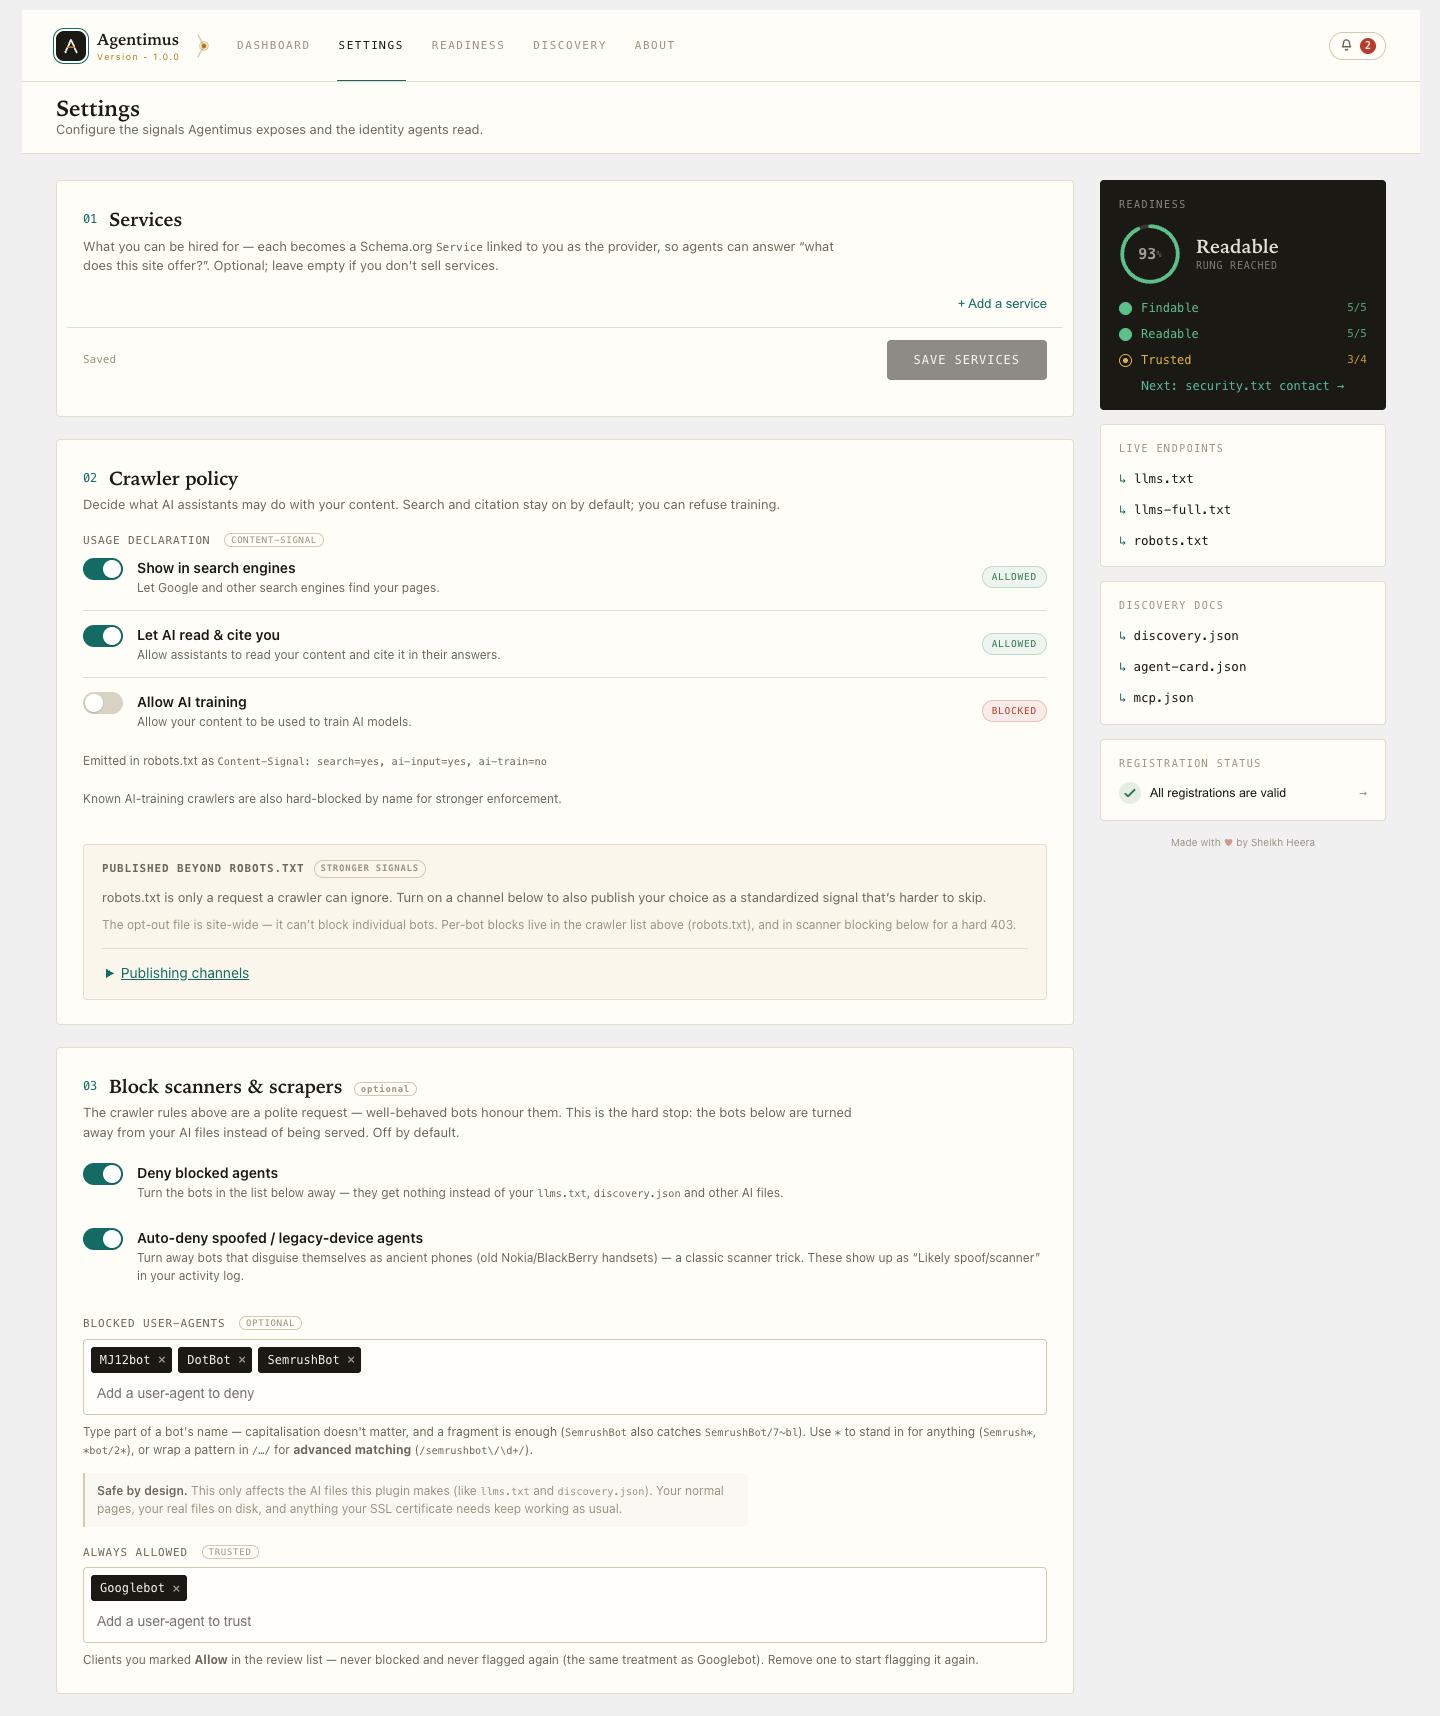
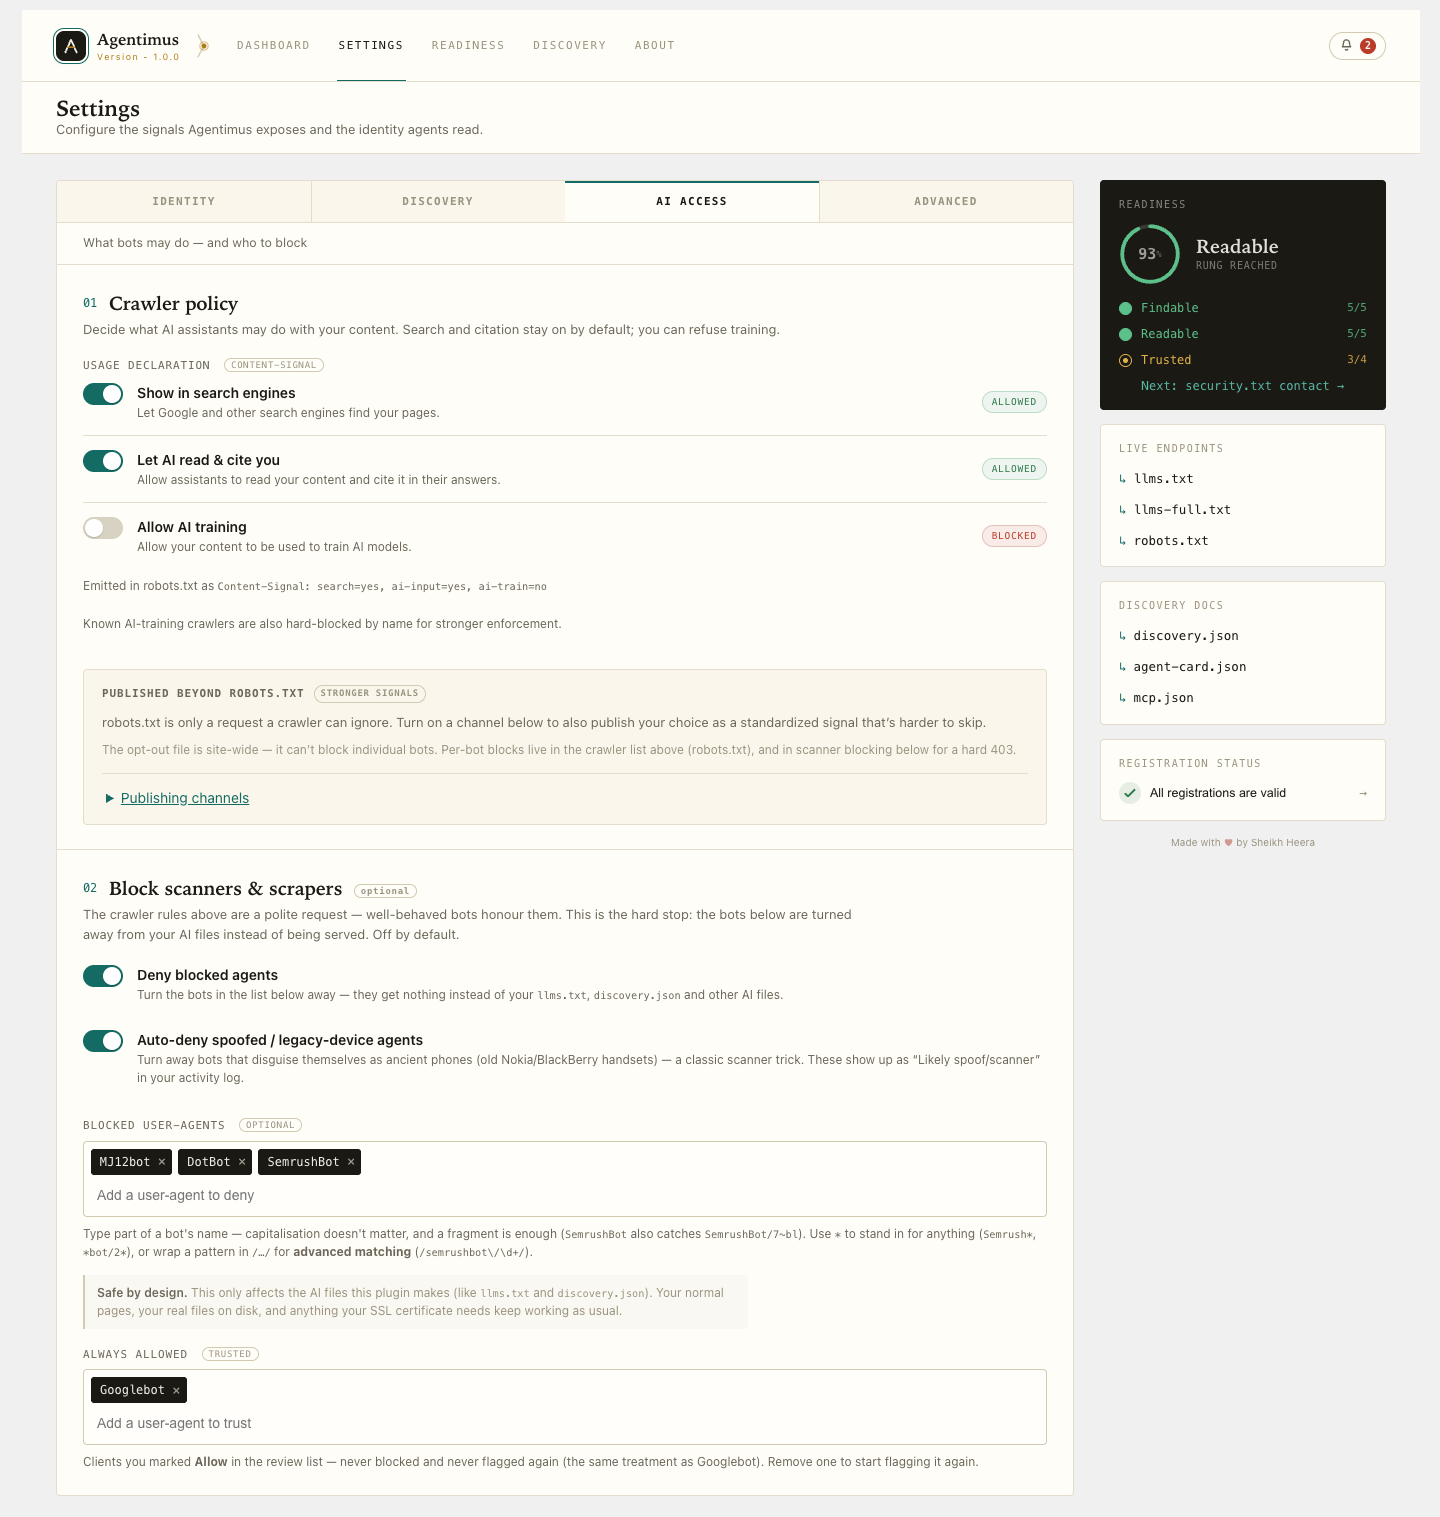
assets(wporg): regenerate the two Settings screenshots for the tabbed redesign
The Settings UI is now a tabbed panel, so the old render logic (which keyed off
flat card IDs and hid siblings) no longer produces a coherent shot. Updated the
render script to select a group via its sub-nav tab: shot 2 = Discovery
(readiness toggles + the new Browser tools / WebMCP card), shot 5 = AI access
(crawler policy + scanner blocking). Staged WebMCP in the screenshot data and
updated the shot-2 caption to match.

diff --git a/.dev/asset-sources/data.js b/.dev/asset-sources/data.js
@@ -1,2 +1,5 @@
 window.AgentimusData = {"restUrl":"https:\/\/heera.it\/wp-json\/agentimus\/v1","nonce":"e52e4bdfdf","settings":{"enable_llms_txt":true,"enable_llms_full":true,"enable_markdown":true,"enable_robots":true,"enable_schema":true,"enable_activity":true,"enable_sitemap":true,"enable_security_txt":false,"enable_signing":true,"llms_full_posts":50,"llms_full_max_kb":1024,"post_types":["post","page","article"],"rest_namespaces":[],"oauth_auth_server":"","suppressed_resources":[],"identity":{"entity_type":"Person","name":"Sheikh Heera","role":"Software architect & CTO, Authlab","about":"Sheikh Heera is a software architect and CTO of Authlab, based in Sylhet, Bangladesh, with 16+ years building web applications and software systems. Outside engineering he is a dedicated fraghead who collects perfumes, with a personal collection of nearly 2,000 fragrances.","contact_email":"","expertise":["Software Architecture","AI Engineering","Security","PHP","JavaScript","WordPress","Laravel","Vue","Fragrance"],"same_as":["https:\/\/github.com\/heera","https:\/\/heera.it"]},"security":{"contacts":[],"policy":"","acknowledgments":"","encryption":"","hiring":"","preferred_languages":"","expires_days":182},"content_signal":{"search":true,"ai_input":true,"ai_train":false},"blocked_trainers":["Amazonbot","Applebot-Extended","Bytespider","CCBot","ClaudeBot","GPTBot","Google-Extended","meta-externalagent"],"block_agents":true,"block_spoofed":true,"blocked_agents":["MJ12bot","DotBot","SemrushBot"],"allowed_agents":["Googlebot"]},"defaults":{"enable_llms_txt":true,"enable_llms_full":true,"enable_markdown":true,"enable_robots":true,"enable_schema":true,"enable_activity":true,"enable_sitemap":true,"enable_security_txt":false,"enable_signing":false,"llms_full_posts":50,"llms_full_max_kb":1024,"post_types":["post","page"],"rest_namespaces":[],"oauth_auth_server":"","suppressed_resources":[],"identity":{"entity_type":"Person","name":"Sheikh Heera","role":"","about":"","contact_email":"","expertise":[],"same_as":[]},"security":{"contacts":[],"policy":"","acknowledgments":"","encryption":"","hiring":"","preferred_languages":"","expires_days":182},"content_signal":{"search":true,"ai_input":true,"ai_train":false},"blocked_trainers":["Amazonbot","Applebot-Extended","Bytespider","CCBot","ClaudeBot","GPTBot","Google-Extended","meta-externalagent"]},"readiness":[{"id":"public","label":"Search engine visibility","status":"pass","detail":"The site is public, so agents and crawlers can read it.","fix":"","action":null},{"id":"permalinks","label":"Pretty permalinks","status":"pass","detail":"Markdown URLs like \/post-slug.md resolve cleanly.","fix":"","action":null},{"id":"llms","label":"\/llms.txt index","status":"pass","detail":"Served at https:\/\/heera.it\/llms.txt.","fix":"","action":null},{"id":"llms_full","label":"\/llms-full.txt full text","status":"pass","detail":"Served at https:\/\/heera.it\/llms-full.txt.","fix":"","action":null},{"id":"llms_full_size","label":"Full-text file size","status":"pass","detail":"About 58 items (~232 KB), within the 1 MB limit.","fix":"","action":null},{"id":"post_types","label":"Content coverage","status":"pass","detail":"Indexing 3 content type(s): Posts, Pages, Article.","fix":"","action":null},{"id":"about","label":"Author \/ entity profile","status":"pass","detail":"A profile sentence is set \u2014 the highest-signal line for retrieval.","fix":"","action":null},{"id":"expertise","label":"Expertise topics","status":"pass","detail":"Expertise is declared (feeds llms.txt and knowsAbout).","fix":"","action":null},{"id":"same_as","label":"sameAs profiles","status":"pass","detail":"Linked profiles help agents resolve your entity confidently.","fix":"","action":null},{"id":"security_txt","label":"security.txt contact","status":"warn","detail":"No security.txt. Researchers and agents have no machine-readable way to report a vulnerability.","fix":"Turn on \u201cGenerate security.txt\u201d under Settings \u2192 Security.txt and add a contact (your Identity email is reused automatically). It publishes an RFC 9116 disclosure contact at \/.well-known\/security.txt.","action":{"label":"Enable security.txt","tab":"settings","anchor":"ar-sec-security"}},{"id":"schema","label":"JSON-LD structured data","status":"pass","detail":"Agentimus is emitting WebSite + entity + article schema.","fix":"","action":null},{"id":"robots","label":"robots.txt control","status":"pass","detail":"WordPress serves a virtual robots.txt that this plugin manages.","fix":"","action":null},{"id":"sitemap","label":"XML sitemap","status":"pass","detail":"WordPress core sitemap is live and advertised in robots.txt and llms.txt.","fix":"","action":null},{"id":"robots_sitemap","label":"Sitemap in robots.txt","status":"pass","detail":"robots.txt declares a Sitemap: line, so crawlers discover your sitemap automatically.","fix":"","action":null}],"discovery":{"endpoints":{"discovery":"https:\/\/heera.it\/.well-known\/discovery.json","agentCard":"https:\/\/heera.it\/.well-known\/agent-card.json","agentJson":"https:\/\/heera.it\/.well-known\/agent.json","mcp":"https:\/\/heera.it\/.well-known\/mcp.json","rest":"https:\/\/heera.it\/wp-json\/agentimus\/v1\/discovery"},"site":{"name":"Sheikh Heera","url":"https:\/\/heera.it\/","description":"Software Developer, Fragrance Lover & Dreamer","lang":"en-US","logo":""},"resources":[{"id":"acme-bookings","title":"Acme Bookings","type":"scheduling","description":"Appointment scheduling exposed for agents.","version":"","provider":"mu-plugins\/agentify-demo-cpts.php","auto":false,"engine":"","suppressed":false,"capabilities":["scheduling.availability.read","scheduling.booking.create"],"endpoints":[{"url":"https:\/\/heera.it\/wp-json\/acme\/v1","type":"rest","auth":"apikey"}],"hasAgent":true,"tools":0,"abilities":[]},{"id":"demo-newsletter","title":"Demo Newsletter","type":"crm","description":"Read-only subscriber-list metadata.","version":"","provider":"mu-plugins\/agentify-demo-cpts.php","auto":false,"engine":"","suppressed":false,"capabilities":["crm.lists.read"],"endpoints":[{"url":"https:\/\/heera.it\/wp-json\/demo-news\/v1","type":"rest","auth":"none"}],"hasAgent":false,"tools":0,"abilities":[]},{"id":"abilities-core","title":"Core abilities","type":"agent","description":"3 abilities from the \"core\" namespace.","version":"","provider":"agentimus\/agentimus.php","auto":true,"engine":"Abilities API","suppressed":false,"capabilities":[],"endpoints":[],"hasAgent":true,"tools":3,"abilities":["core\/get-site-info","core\/get-user-info","core\/get-environment-info"]},{"id":"wordpress-core","title":"WordPress Core","type":"content","description":"Core content exposed via the WordPress REST API.","version":"","provider":"agentimus\/agentimus.php","auto":true,"engine":"REST API","suppressed":false,"capabilities":["content.posts.read","content.pages.read","content.article.read","content.categories.read","content.tags.read"],"endpoints":[{"url":"https:\/\/heera.it\/wp-json\/wp\/v2","type":"rest","auth":"none"}],"hasAgent":false,"tools":0,"abilities":[]}],"capabilities":["scheduling.availability.read","scheduling.booking.create","crm.lists.read","content.posts.read","content.pages.read","content.article.read","content.categories.read","content.tags.read"],"apis":[{"id":"acme-bookings","type":"rest","base":"https:\/\/heera.it\/wp-json\/acme\/v1","schema":"","auth":{"type":"apikey","docs":""}},{"id":"demo-newsletter","type":"rest","base":"https:\/\/heera.it\/wp-json\/demo-news\/v1","schema":"","auth":{"type":"none","docs":""}},{"id":"wordpress-core","type":"rest","base":"https:\/\/heera.it\/wp-json\/wp\/v2","schema":"","auth":{"type":"none","docs":""}}],"agents":[{"id":"acme-bookings","name":"Booking Agent","skills":1},{"id":"abilities-core","name":"Core Agent","skills":3}],"wellKnown":[{"name":"discovery.json","url":"https:\/\/heera.it\/.well-known\/discovery.json","source":"generated","spec":"WP Discovery"},{"name":"agent-card.json","url":"https:\/\/heera.it\/.well-known\/agent-card.json","source":"generated","spec":"A2A"},{"name":"agent.json","url":"https:\/\/heera.it\/.well-known\/agent.json","source":"generated","spec":"A2A (legacy)"},{"name":"mcp.json","url":"https:\/\/heera.it\/.well-known\/mcp.json","source":"generated","spec":"MCP (experimental)"},{"name":"api-catalog","url":"https:\/\/heera.it\/.well-known\/api-catalog","source":"generated","spec":"RFC 9727"},{"name":"http-message-signatures-directory","url":"https:\/\/heera.it\/.well-known\/http-message-signatures-directory","source":"generated","spec":"Web Bot Auth (HTTP Message Signatures)"}],"tools":[{"name":"core\/get-site-info","title":"Get Site Information","description":"Returns site information configured in WordPress. By default returns all fields, or optionally a filtered subset.","inputSchema":{"type":"object","properties":{"fields":{"type":"array","items":{"type":"string","enum":["name","description","url","wpurl","admin_email","charset","language","version"]},"description":"Optional: Limit response to specific fields. If omitted, all fields are returned."}},"additionalProperties":false,"default":[]},"outputSchema":{"type":"object","properties":{"name":{"type":"string","description":"The site title."},"description":{"type":"string","description":"The site tagline."},"url":{"type":"string","description":"The site home URL."},"wpurl":{"type":"string","description":"The WordPress installation URL."},"admin_email":{"type":"string","description":"The site administrator email address."},"charset":{"type":"string","description":"The site character encoding."},"language":{"type":"string","description":"The site language locale code."},"version":{"type":"string","description":"The WordPress version."}},"additionalProperties":false},"annotations":{"readOnlyHint":true},"auth":"none"},{"name":"core\/get-user-info","title":"Get User Information","description":"Returns basic profile details for the current authenticated user to support personalization, auditing, and access-aware behavior.","inputSchema":[],"outputSchema":{"type":"object","required":["id","display_name","user_nicename","user_login","roles","locale"],"properties":{"id":{"type":"integer","description":"The user ID."},"display_name":{"type":"string","description":"The display name of the user."},"user_nicename":{"type":"string","description":"The URL-friendly name for the user."},"user_login":{"type":"string","description":"The login username for the user."},"roles":{"type":"array","description":"The roles assigned to the user.","items":{"type":"string"}},"locale":{"type":"string","description":"The locale string for the user, such as en_US."}},"additionalProperties":false},"annotations":{"readOnlyHint":true},"auth":"none"},{"name":"core\/get-environment-info","title":"Get Environment Info","description":"Returns core details about the site's runtime context for diagnostics and compatibility (environment, PHP runtime, database server info, WordPress version).","inputSchema":[],"outputSchema":{"type":"object","required":["environment","php_version","db_server_info","wp_version"],"properties":{"environment":{"type":"string","description":"The site's runtime environment classification (can be one of these: production, staging, development, local).","enum":["production","staging","development","local"]},"php_version":{"type":"string","description":"The PHP runtime version executing WordPress."},"db_server_info":{"type":"string","description":"The database server vendor and version string reported by the driver."},"wp_version":{"type":"string","description":"The WordPress core version running on this site."}},"additionalProperties":false},"annotations":{"readOnlyHint":true},"auth":"none"}],"mcp":{"available":false,"source":"abilities","endpoint":"","transport":"","auth":"","tools":3,"servers":[],"status":"experimental"},"adapters":[{"id":"rest-api","title":"REST API (auto-discovery)","available":true},{"id":"wp-abilities","title":"WordPress Abilities API","available":true}],"notices":[],"counts":{"resources":4,"suppressed":0,"capabilities":8,"apis":3,"tools":3,"errors":0}},"restNamespacesDetected":["disqus\/v1","docwriter\/v2","fluent-cart\/v2","jetpack-boost\/v1","jetpack\/v4","jetpack\/v4\/stats-app","klaviyo\/v1","payments\/woopay","paypal\/v1","pinterest\/v1","wc-admin","wc-admin-email","wc-analytics","wc-telemetry","wc\/gla","wc\/pos\/v1\/catalog","wc\/private","wc\/rfw\/jetpack","wc\/rfw\/reddit","wc\/sfw\/jetpack","wc\/sfw\/snapchat","wc\/store","wc\/store\/v1","wc\/v1","wc\/v2","wc\/v3","wc\/v3\/wc_paypal","wccom-site\/v3","wpaiwriter\/v2","wpcom\/v2","wpcom\/v3","wpfluent\/v2"],"entityTypes":["Person","Organization","LocalBusiness","Store"],"postTypes":[{"slug":"post","label":"Posts","source":""},{"slug":"page","label":"Pages","source":""},{"slug":"event","label":"Events","source":""},{"slug":"recipe","label":"Recipes","source":""},{"slug":"book","label":"Books","source":""},{"slug":"portfolio_item","label":"Portfolio","source":""},{"slug":"product","label":"Products","source":""},{"slug":"fluent-products","label":"Products","source":""},{"slug":"article","label":"Article","source":""}],"knownTrainers":["Amazonbot","Applebot-Extended","Bytespider","CCBot","ClaudeBot","GPTBot","Google-Extended","meta-externalagent"],"endpoints":{"llms":"https:\/\/heera.it\/llms.txt","llmsFull":"https:\/\/heera.it\/llms-full.txt","robots":"https:\/\/heera.it\/robots.txt"},"version":"1.0.0","onboarded":true,"llmsFullEstimate":{"items":58,"est_bytes":237568,"budget_bytes":[phone redacted],"will_truncate":false}};
 window.__ACTIVITY__ = {"enabled": true, "window": 30, "totals": {"today": 38, "week": 274, "month": 1180, "all": 1180, "agents": 8}, "byAgent": [{"label": "GPTBot", "hits": 402}, {"label": "ClaudeBot", "hits": 318}, {"label": "PerplexityBot", "hits": 211}, {"label": "Googlebot", "hits": 168}, {"label": "Google-Extended", "hits": 92}, {"label": "CCBot", "hits": 64}, {"label": "Bytespider", "hits": 41}, {"label": "Script/tool", "hits": 28}], "byEndpoint": [{"label": "/llms.txt", "hits": 540}, {"label": "/.well-known/discovery.json", "hits": 222}, {"label": "/llms-full.txt", "hits": 180}, {"label": "/about.md", "hits": 96}, {"label": "/.well-known/agent-card.json", "hits": 71}, {"label": "/.well-known/mcp.json", "hits": 44}, {"label": "/robots.txt", "hits": 31}], "daily": [{"date": "2026-06-05", "hits": 62}, {"date": "2026-06-06", "hits": 48}, {"date": "2026-06-07", "hits": 75}, {"date": "2026-06-08", "hits": 90}, {"date": "2026-06-09", "hits": 58}, {"date": "2026-06-10", "hits": 103}, {"date": "2026-06-11", "hits": 84}, {"date": "2026-06-12", "hits": 71}, {"date": "2026-06-13", "hits": 96}, {"date": "2026-06-14", "hits": 120}, {"date": "2026-06-15", "hits": 88}, {"date": "2026-06-16", "hits": 77}, {"date": "2026-06-17", "hits": 110}, {"date": "2026-06-18", "hits": 94}], "recent": [{"endpoint": "/llms.txt", "agent": "GPTBot", "ua": "Mozilla/5.0 AppleWebKit/537.36 (KHTML, like Gecko); compatible; GPTBot/1.2; +https://openai.com/gptbot", "at": new Date(Date.now()-60000).toISOString()}, {"endpoint": "/.well-known/discovery.json", "agent": "ClaudeBot", "ua": "Mozilla/5.0 (compatible; ClaudeBot/1.0; [email redacted])", "at": new Date(Date.now()-240000).toISOString()}, {"endpoint": "/llms-full.txt", "agent": "PerplexityBot", "ua": "Mozilla/5.0 (compatible; PerplexityBot/1.0; +https://perplexity.ai/perplexitybot)", "at": new Date(Date.now()-420000).toISOString()}, {"endpoint": "/about.md", "agent": "GPTBot", "ua": "Mozilla/5.0 AppleWebKit/537.36 (KHTML, like Gecko); compatible; GPTBot/1.2; +https://openai.com/gptbot", "at": new Date(Date.now()-720000).toISOString()}, {"endpoint": "/robots.txt", "agent": "Googlebot", "ua": "Mozilla/5.0 (compatible; Googlebot/2.1; +http://www.google.com/bot.html)", "at": new Date(Date.now()-1080000).toISOString()}, {"endpoint": "/llms.txt", "agent": "ClaudeBot", "ua": "Mozilla/5.0 (compatible; ClaudeBot/1.0; [email redacted])", "at": new Date(Date.now()-1560000).toISOString()}, {"endpoint": "/.well-known/agent-card.json", "agent": "Google-Extended", "ua": "Mozilla/5.0 (compatible; Google-Extended/1.0)", "at": new Date(Date.now()-2280000).toISOString()}, {"endpoint": "/.well-known/discovery.json", "agent": "GPTBot", "ua": "Mozilla/5.0 AppleWebKit/537.36 (KHTML, like Gecko); compatible; GPTBot/1.2; +https://openai.com/gptbot", "at": new Date(Date.now()-3060000).toISOString()}, {"endpoint": "/llms.txt", "agent": "CCBot", "ua": "CCBot/2.0 (https://commoncrawl.org/faq/)", "at": new Date(Date.now()-4200000).toISOString()}, {"endpoint": "/.well-known/mcp.json", "agent": "PerplexityBot", "ua": "Mozilla/5.0 (compatible; PerplexityBot/1.0; +https://perplexity.ai/perplexitybot)", "at": new Date(Date.now()-5700000).toISOString()}, {"endpoint": "/about.md", "agent": "ClaudeBot", "ua": "Mozilla/5.0 (compatible; ClaudeBot/1.0; [email redacted])", "at": new Date(Date.now()-7980000).toISOString()}, {"endpoint": "/llms.txt", "agent": "GPTBot", "ua": "Mozilla/5.0 AppleWebKit/537.36 (KHTML, like Gecko); compatible; GPTBot/1.2; +https://openai.com/gptbot", "at": new Date(Date.now()-10260000).toISOString()}], "threats": {"blockingOn": true, "counts": {"new": 1, "heavy": 0, "spoof": 1}, "sources": [{"blocked": false, "agent": "Other bot", "known": null, "ua": "Mozilla/5.0 (compatible; GenericCrawler/2.1; +http://example.net/bot)", "action": "agent", "token": "GenericCrawler", "flags": {"new": true, "heavy": false, "spoof": false}, "hits": 38, "recent": 12, "lastSeen": new Date(Date.now() - 8*60000).toISOString()}, {"blocked": false, "agent": "Likely spoof/scanner", "known": null, "ua": "Nokia6230/2.0 (compatible)", "action": "spoofed", "flags": {"new": false, "heavy": false, "spoof": true}, "hits": 64, "recent": 22, "lastSeen": new Date(Date.now() - 21*60000).toISOString()}]}};
+window.AgentimusData.webmcpTools = [{"name":"search_site","description":"Search Sheikh Heera and return matching posts and pages."}];
+window.AgentimusData.settings.enable_webmcp = true;
+window.AgentimusData.settings.webmcp_hidden_tools = [];